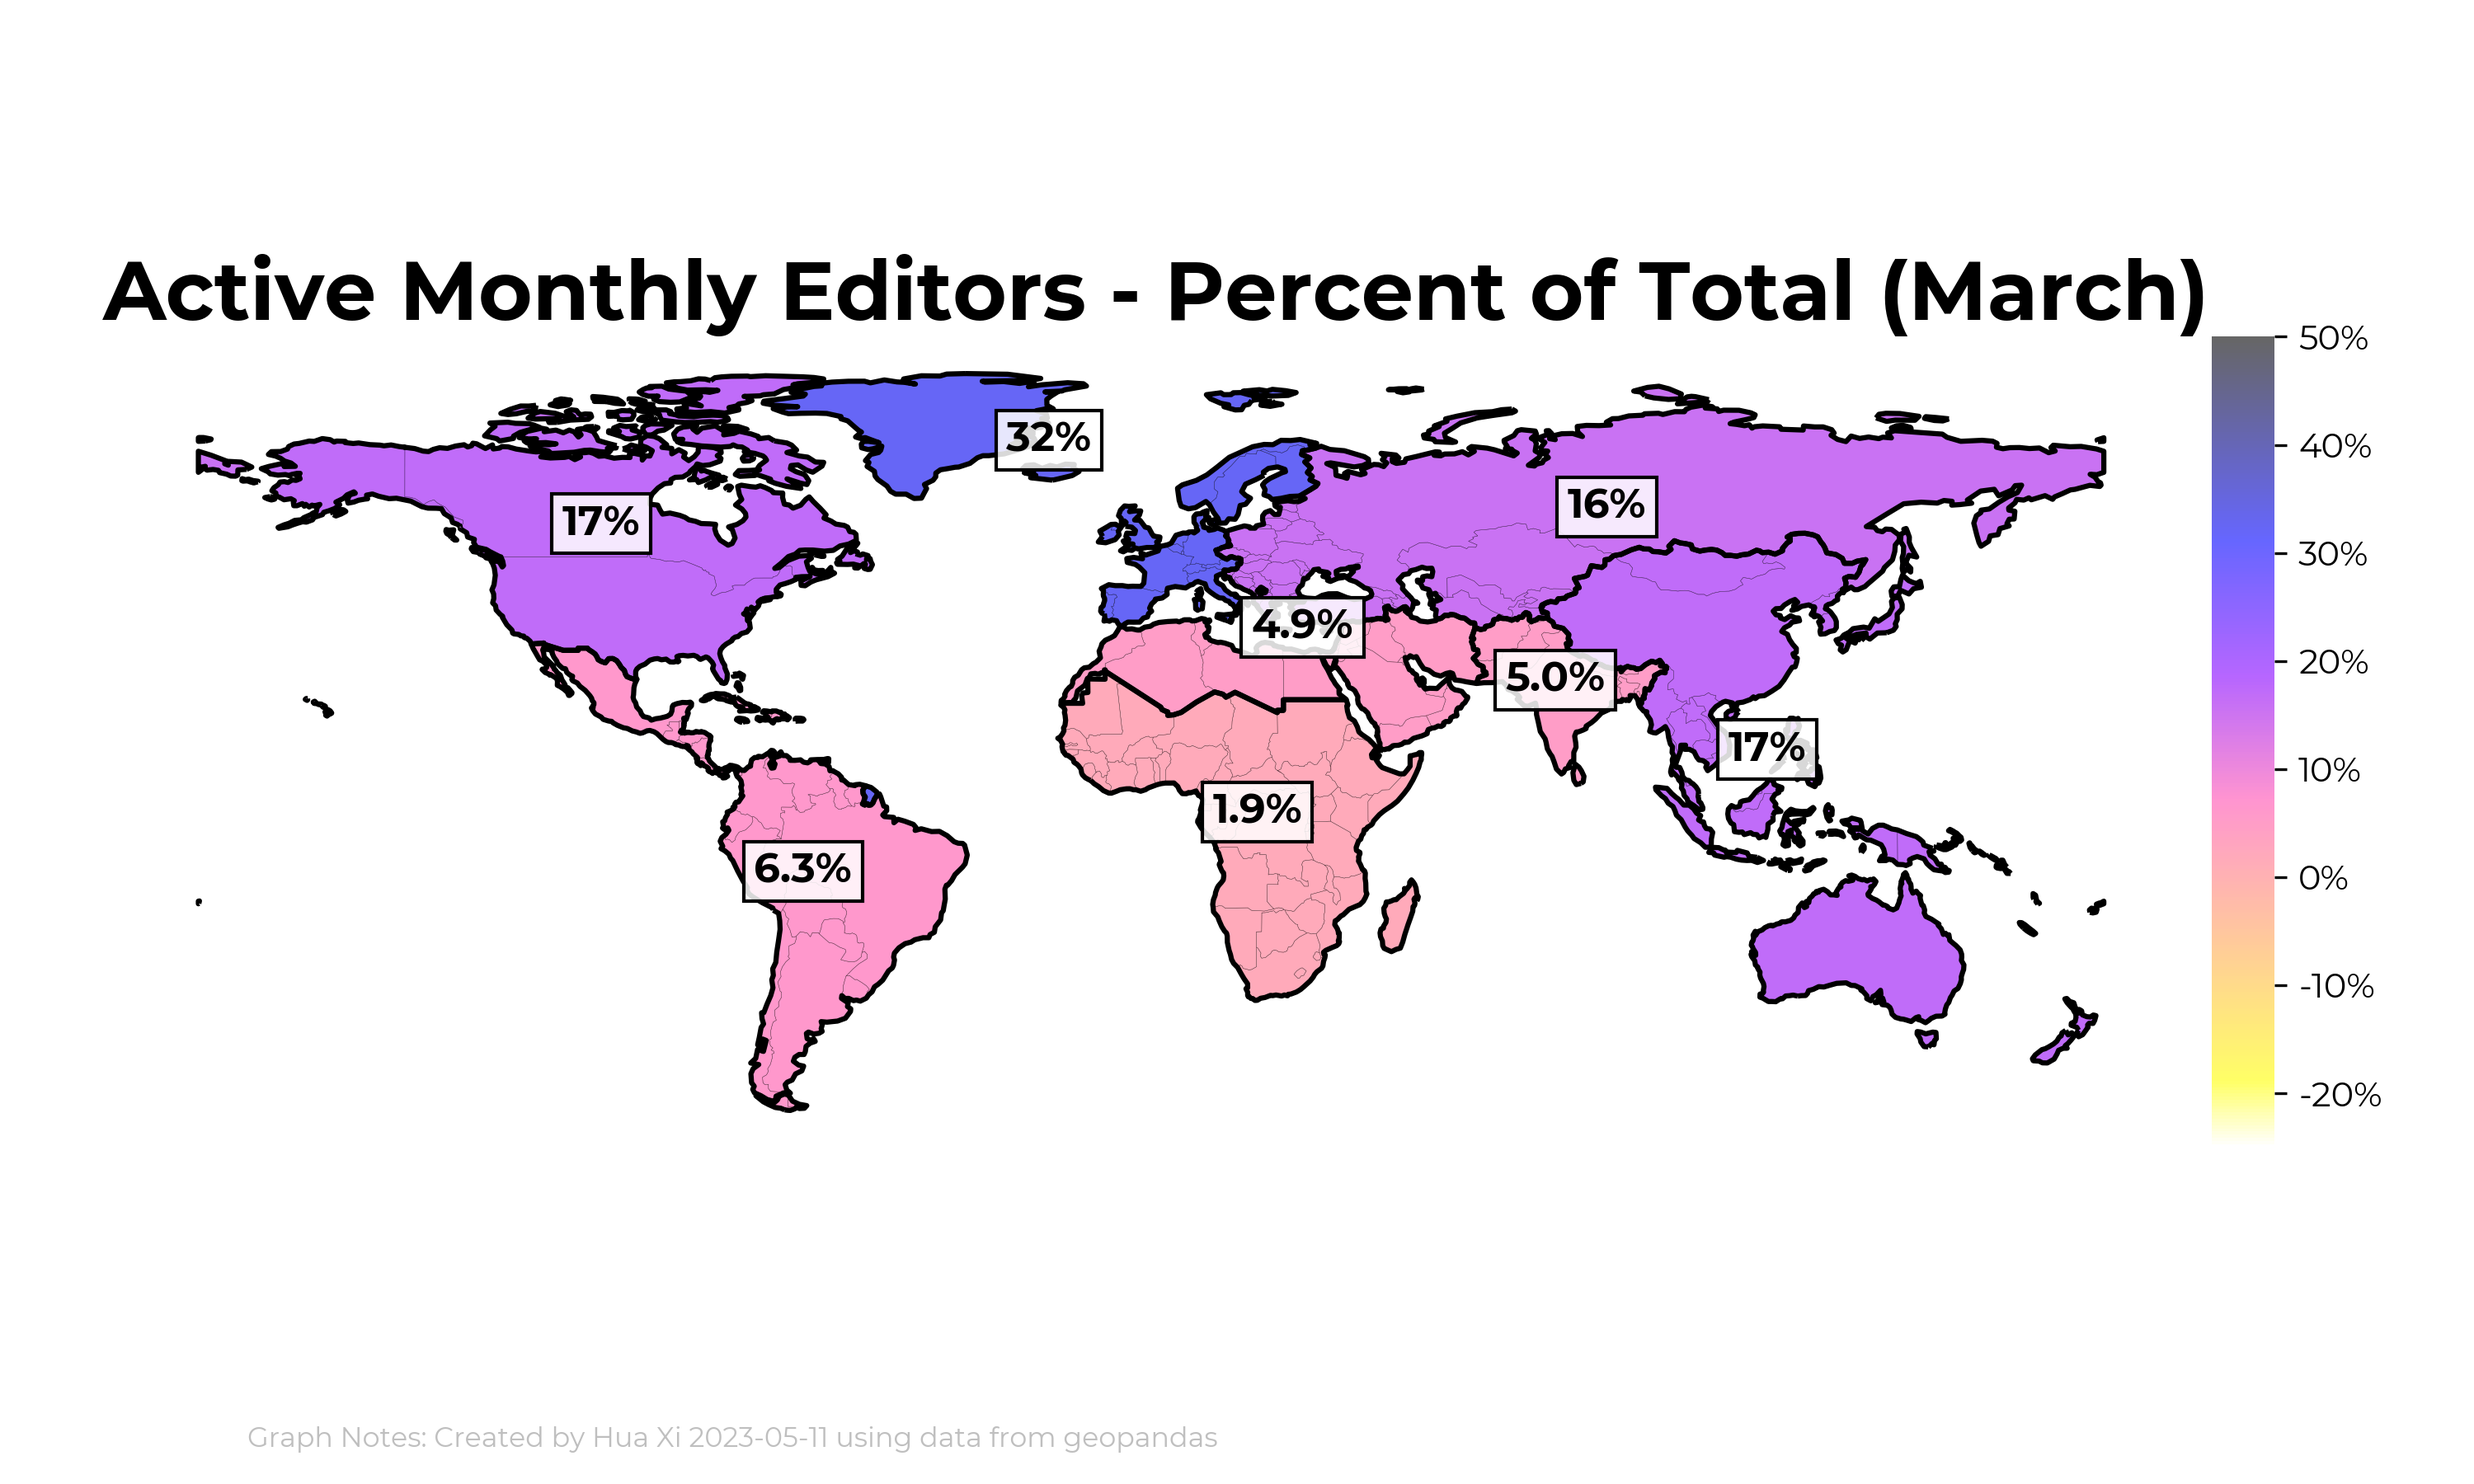
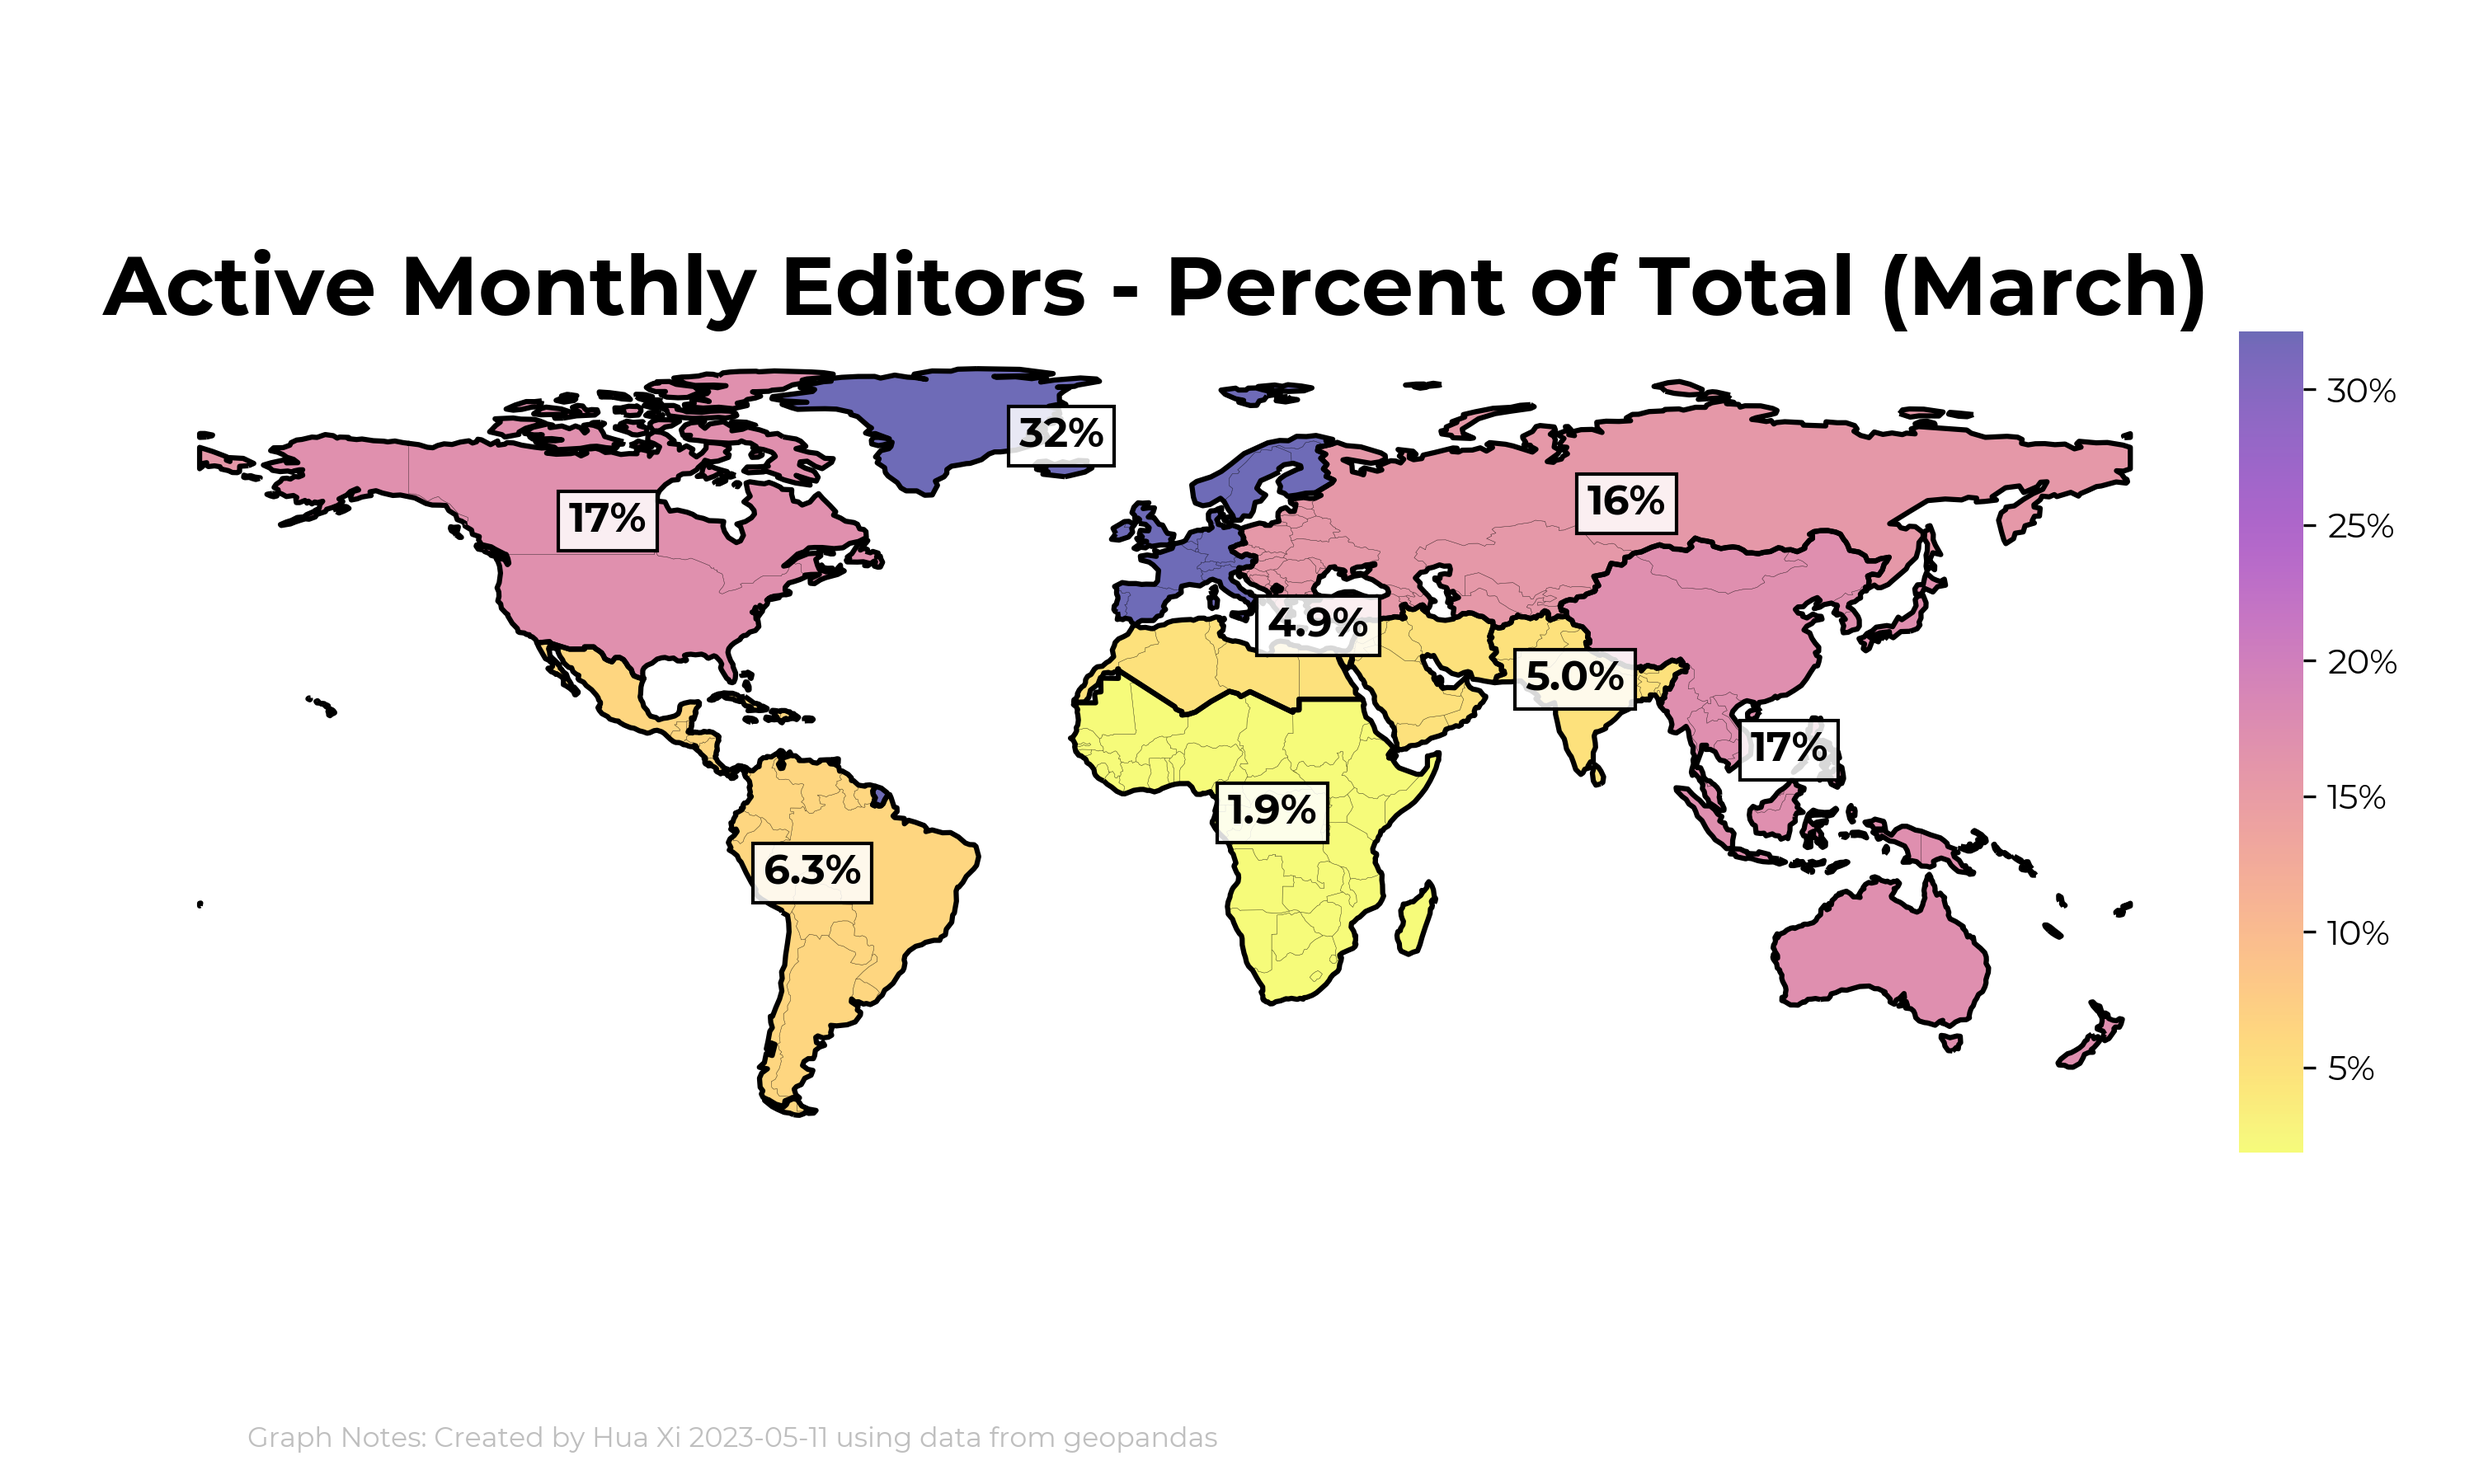
map chart updates

diff --git a/local/individual_chart_scripts/map.py b/local/individual_chart_scripts/map.py
@@ -80,6 +80,7 @@ def main(argv):
 	#region_table.to_csv("region_geometries.csv")
 	
 	#---READER DATA---
+	#clean and merge reader data
 	reader_df = pd.read_csv(data_directory + '/data/regional_reader_metrics.csv')
 	#clean
 	reader_df['month'] = pd.to_datetime(reader_df['month'])
@@ -94,6 +95,7 @@ def main(argv):
 	region_table = region_table.drop(columns=['month'])
 	
 	#---EDITOR DATA---
+	#clean and merge editor data
 	editor_df = pd.read_csv(data_directory + '/data/regional_editor_metrics.csv')
 	#clean
 	editor_df = editor_df.rename(columns={"sum(editors)": "monthly_editors","wmf_region":"region"})
@@ -108,6 +110,7 @@ def main(argv):
 	region_table = region_table.drop(columns=['month','region'])
 	
 	#---CONTENT DATA---
+	#clean and merge content data
 	content_df = pd.read_csv(data_directory + '/data/content_quality.csv')
 	#clean
 	content_df = content_df.rename(columns={"time_bucket":"month"})
@@ -123,10 +126,10 @@ def main(argv):
 	region_table = region_table.drop(columns=['month','region'])
 	
 	#---VALUES---
-	region_table['pop_label'] = region_table['sum_pop_est'].apply(lambda v: simple_num_format(v))
-	region_table['ud_label'] = region_table['unique_devices'].apply(lambda v: simple_num_format(v))
-	region_table['ed_label'] = region_table['monthly_editors'].apply(lambda v: simple_num_format(v))
-	region_table['sqc_label'] = region_table['standard_quality_count'].apply(lambda v: simple_num_format(v))
+	region_table['pop_label'] = region_table['sum_pop_est'].apply(simple_num_format, round_sigfigs=True)
+	region_table['ud_label'] = region_table['unique_devices'].apply(simple_num_format, round_sigfigs=True)
+	region_table['ed_label'] = region_table['monthly_editors'].apply(simple_num_format, round_sigfigs=True)
+	region_table['sqc_label'] = region_table['standard_quality_count'].apply(simple_num_format, round_sigfigs=True)
 
 	#---PERCENT OF TOTAL---
 	def format_perc(x, sig=2, sign=True):
@@ -152,7 +155,16 @@ def main(argv):
 	region_table['ed_perc_label'] = region_table['ed_perc'].apply(format_perc, sign = False)
 	region_table['sqc_perc'] = ((region_table['standard_quality_count'] / region_table['standard_quality_count'].sum()) * 100)
 	region_table['sqc_perc_label'] = region_table['sqc_perc'].apply(format_perc, sign = False)
-	
+	#quality articles 2022 percent of total
+	prev_time = content_df.iloc[-1]['month'].replace(day=1) - relativedelta(years=1)
+	content_df_22 = content_df.loc[content_df['month'] == prev_time]
+	content_df_22['sqc_perc_22'] = ((content_df_22['standard_quality_count'] / content_df_22['standard_quality_count'].sum()) * 100)
+	content_df_22['sqc_perc_22_label'] = content_df_22['sqc_perc_22'].apply(format_perc, sign = False)
+	content_df_22 = content_df_22.rename(columns={'standard_quality_count':'standard_quality_count_22'})
+	region_table = region_table.merge(content_df_22, how='left', left_on="wmf_region", right_on="region").set_axis(region_table.index)
+	region_table = region_table.drop(columns=['month','region'])
+	region_table['sqc_label_22'] = region_table['standard_quality_count_22'].apply(simple_num_format, round_sigfigs=True)
+
 	#---CHANGE OVER TIME---
 	def change_over_time(var, change_var_name, data_df, region_table_local, days_delta = 0, months_delta=0, years_delta = 0):
 		#get data for last month
@@ -227,7 +239,7 @@ def main(argv):
 	
 	#---WORLD POPULATION - PERCENT---
 	chart = Wikimap(map_df, fignum=2, title = 'World Population - Percent of Total', data_source="geopandas", month=current_month)
-	chart.plot_wcolorbar(col = 'pop_perc', setperc=True)
+	chart.plot_wcolorbar(col = 'pop_perc')
 	chart.plot_regions(region_table,'pop_perc_label')
 	chart.format_map(cbar_perc=True)
 	save_file_name = dirname(script_directory) + "/charts/Map_WorldPopPerc.png"
@@ -243,7 +255,7 @@ def main(argv):
 	
 	#---READER METRICS - UNIQUE DEVICES PERCENT---
 	chart = Wikimap(map_df, fignum=4, title = 'Unique Devices - Percent of Total', data_source="geopandas", month=reader_lastmonth)
-	chart.plot_wcolorbar(col = 'ud_perc', setperc=True)
+	chart.plot_wcolorbar(col = 'ud_perc')
 	chart.plot_regions(region_table,'ud_perc_label')
 	chart.format_map(cbar_perc=True)
 	save_file_name = dirname(script_directory) + "/charts/Map_UniqueDevicesPerc.png"
@@ -261,7 +273,7 @@ def main(argv):
 
 	#---READER METRICS - UNIQUE DEVICES YOY of 3MO ROLLING Average---
 	chart = Wikimap(map_df, fignum=6, title = 'Unique Devices - Three Year Change of 3 Month Rolling Average', data_source="geopandas", month=reader_lastmonth)
-	chart.plot_wcolorbar(col = 'ud_3morolling_yoy', setperc=True)
+	chart.plot_wcolorbar(col = 'ud_3morolling_yoy', setlimits=True)
 	chart.plot_regions(region_table,'ud_3morolling_yoy_label')
 	chart.format_map(cbar_perc=True)
 	save_file_name = dirname(script_directory) + "/charts/Map_UniqueDevices3moRollingYoy.png"
@@ -277,7 +289,7 @@ def main(argv):
 
 	#---EDITOR METRICS - ACTIVE MONTHLY EDITORS PERC---
 	chart = Wikimap(map_df, fignum=8, title = 'Active Monthly Editors - Percent of Total', data_source="geopandas", month=editor_lastmonth)
-	chart.plot_wcolorbar(col = 'ed_perc', setperc=True)
+	chart.plot_wcolorbar(col = 'ed_perc')
 	chart.plot_regions(region_table, 'ed_perc_label')
 	chart.format_map(cbar_perc=True)
 	save_file_name = dirname(script_directory) + "/charts/Map_EditorsPerc.png"
@@ -285,7 +297,7 @@ def main(argv):
 
 	#---EDITOR METRICS - EDITORS YOY of 3MO ROLLING Average---
 	chart = Wikimap(map_df, fignum=6, title = 'Active Monthly Editors - YoY Change of 3 Month Rolling Average', data_source="geopandas", month=editor_lastmonth)
-	chart.plot_wcolorbar(col = 'ed_3morolling_yoy', setperc=True)
+	chart.plot_wcolorbar(col = 'ed_3morolling_yoy', setlimits=True)
 	chart.plot_regions(region_table,'ed_3morolling_yoy_label')
 	chart.format_map(cbar_perc=True)
 	save_file_name = dirname(script_directory) + "/charts/Map_Editors3moRollingYoy.png"
@@ -301,24 +313,41 @@ def main(argv):
 	chart.finalize_plot(save_file_name,display=True)
 	'''
 	#---CONTENT METRICS - COUNT---
-	chart = Wikimap(map_df, fignum=10, title = 'Quality Articles', data_source="geopandas", month=content_lastmonth)
-	chart.plot_wcolorbar(col = 'standard_quality_count')
+	chart = Wikimap(map_df, fignum=10, title = 'Quality Articles 2022', data_source="geopandas", month=content_lastmonth)
+	chart.plot_wcolorbar(col = 'standard_quality_count_22', setlimits=True, custom_vmin=0, custom_vmax=600000)
+	chart.plot_regions(region_table,'sqc_label_22')
+	chart.format_map()
+	save_file_name = dirname(script_directory) + "/charts/Map_Content22.png"
+	chart.finalize_plot(save_file_name,display=True)
+
+	#---CONTENT METRICS - COUNT---
+	chart = Wikimap(map_df, fignum=10, title = 'Quality Articles 2023', data_source="geopandas", month=content_lastmonth)
+	chart.plot_wcolorbar(col = 'standard_quality_count', setlimits=True, custom_vmin=0, custom_vmax=600000)
 	chart.plot_regions(region_table,'sqc_label')
 	chart.format_map()
-	save_file_name = dirname(script_directory) + "/charts/Map_Content.png"
+	save_file_name = dirname(script_directory) + "/charts/Map_Content23.png"
 	chart.finalize_plot(save_file_name,display=True)
 
-	#---CONTENT METRICS - PERCENT TOTAL---
-	chart = Wikimap(map_df, fignum=11, title = 'Quality Articles - Percent of Total', data_source="geopandas", month=content_lastmonth)
-	chart.plot_wcolorbar(col = 'sqc_perc', setperc=True)
+	#---CONTENT METRICS - PERCENT TOTAL 2022---
+	chart = Wikimap(map_df, fignum=11, title = 'Quality Articles - Percent of Total 2022', data_source="geopandas", month=content_lastmonth)
+	chart.plot_wcolorbar(col = 'sqc_perc_22', setlimits=True, custom_vmin=0, custom_vmax=50)
+	chart.plot_regions(region_table,'sqc_perc_22_label')
+	chart.format_map(cbar_perc=True)
+	save_file_name = dirname(script_directory) + "/charts/Map_ContentPerc22.png"
+	chart.finalize_plot(save_file_name,display=True)
+
+	#---CONTENT METRICS - PERCENT TOTAL 2023---
+	chart = Wikimap(map_df, fignum=12, title = 'Quality Articles - Percent of Total 2023', data_source="geopandas", month=content_lastmonth)
+	chart.plot_wcolorbar(col = 'sqc_perc', setlimits=True, custom_vmin=0, custom_vmax=50)
 	chart.plot_regions(region_table,'sqc_perc_label')
 	chart.format_map(cbar_perc=True)
-	save_file_name = dirname(script_directory) + "/charts/Map_ContentPerc.png"
+	save_file_name = dirname(script_directory) + "/charts/Map_ContentPerc23.png"
 	chart.finalize_plot(save_file_name,display=True)
 
+
 	#---CONTENT METRICS - YOY of 3MO ROLLING Average---
-	chart = Wikimap(map_df, fignum=12, title = 'Quality Articles - YoY', data_source="geopandas", month=content_lastmonth)
-	chart.plot_wcolorbar(col = 'sqc_yoy', setperc=True)
+	chart = Wikimap(map_df, fignum=13, title = 'Quality Articles - YoY', data_source="geopandas", month=content_lastmonth)
+	chart.plot_wcolorbar(col = 'sqc_yoy', setlimits=True)
 	chart.plot_regions(region_table, 'sqc_yoy_label')
 	chart.format_map(cbar_perc=True)
 	save_file_name = dirname(script_directory) + "/charts/Map_ContentYoY.png"

diff --git a/local/wikicharts.py b/local/wikicharts.py
@@ -10,8 +10,7 @@ import matplotlib.dates as mdates
 from matplotlib.patches import Rectangle
 from matplotlib.patches import Polygon
 import math
-from math import ceil
-from math import floor
+from math import ceil, floor, log10
 from mpl_toolkits.axes_grid1 import make_axes_locatable
 import numpy as np
 import os
@@ -60,27 +59,36 @@ def calc_order_format(value):
 		formatting = '{:1.0f}'
 	return multiplier, formatting
 
-#takes a number and formats it for y axis labels
-def simple_num_format(value, perc=False, sign=False):
+#takes a number and formats it for y axis labels to two decimal places
+def simple_num_format(value, round_sigfigs = False, sig=2, perc=False, sign=False):
+	#round the value to two significant figureswhere relevant
+	if round_sigfigs:
+		value = round(value, sig-int(floor(log10(abs(value))))-1)
+	#get the order of the value
 	if value == 0:
 		order = 1
 	else:
 		order = math.floor(math.log10(abs(value)))
+	#round where relevant
+	if order >= 3:
+		formatting = '{:1.2f}'
+	else:
+		formatting = '{:1.0f}'
+	#get the order label
 	if order >= 12:
 		multiplier = float('1e-12')
-		formatting = '{:1.2f}T'
+		formatting = formatting + 'T'
 	elif order >= 9:
 		multiplier = float('1e-9')
-		formatting = '{:1.2f}B'
+		formatting = formatting + 'B'
 	elif order >= 6:
 		multiplier = float('1e-6')
-		formatting = '{:1.2f}M'
+		formatting = formatting + 'M'
 	elif order >= 3:
 		multiplier = float('1e-3')
-		formatting = '{:1.2f}K'
+		formatting = formatting + 'K'
 	else:
 		multiplier = 1
-		formatting = '{:1.0f}'
 	formatted_value = formatting.format(value*multiplier)
 	tail_dot_rgx = re.compile(r'(?:(\.)|(\.\d*?[1-9]\d*?))0+(?=\b|[^0-9])')
 	label = tail_dot_rgx.sub(r'\2',formatted_value)
@@ -90,7 +98,6 @@ def simple_num_format(value, perc=False, sign=False):
 		if value > 0:
 			label = "+" + label
 	return label
-
 
 #takes a dataframe and splits it into sets of four columns (for plotting multiple charts per figure)
 #keeps the index column as the first column in each split dataframe
@@ -631,11 +638,11 @@ class Wikimap():
 		plt.figtext(0.1, 0.025, "Graph Notes: Created by " + str(author) + " " + str(today) + " using data from " + str(data_source), family=style_parameters['font'],fontsize=8, color= wmf_colors['black25'])
 
 	#create a map chart with a colorscale legend
-	def plot_wcolorbar(self, col = "pop_est", custom_cmap="gnuplot2_r", plot_alpha=0.6, setperc = False):
+	def plot_wcolorbar(self, col = "pop_est", custom_cmap="plasma_r", plot_alpha=0.6, setlimits = False, custom_vmin = -25, custom_vmax=50):
 		#set min and max for colorbar
-		if setperc == True:
-			self.vmin=-25
-			self.vmax=50
+		if setlimits == True:
+			self.vmin=custom_vmin
+			self.vmax=custom_vmax
 		else: 
 			self.vmin = self.df[col].min()
 			self.vmax = self.df[col].max()
